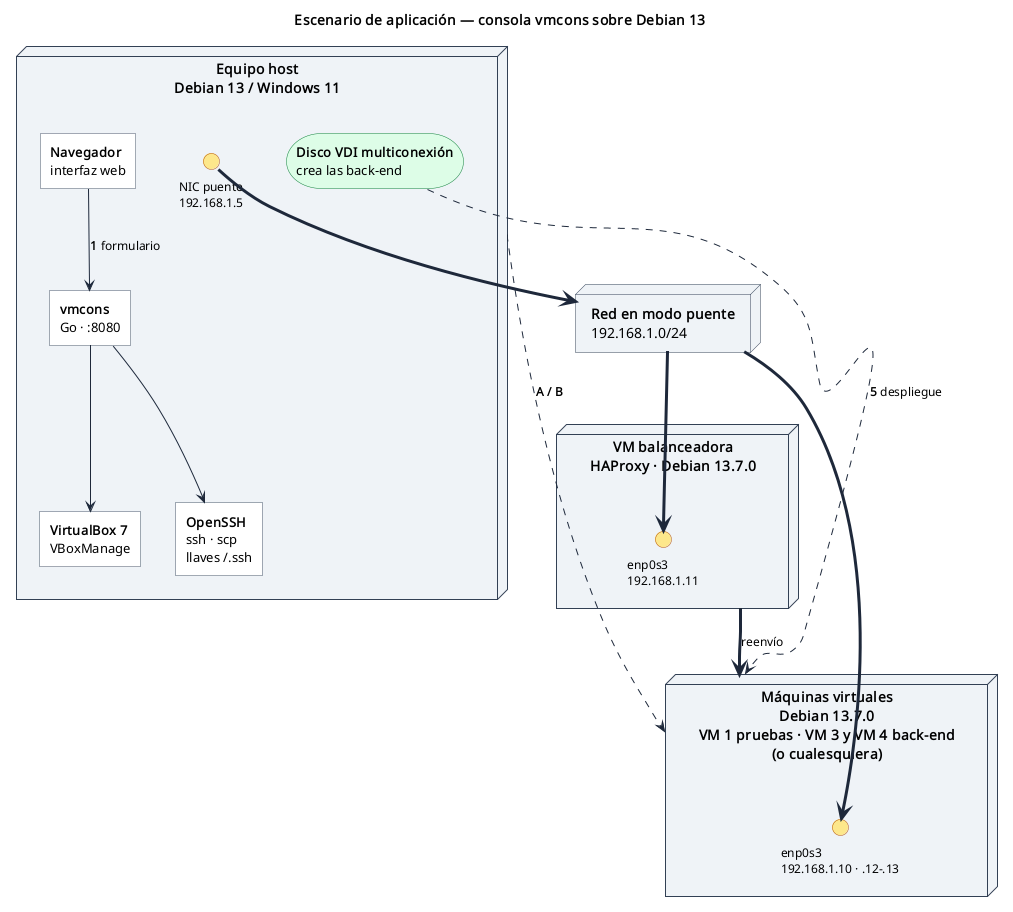
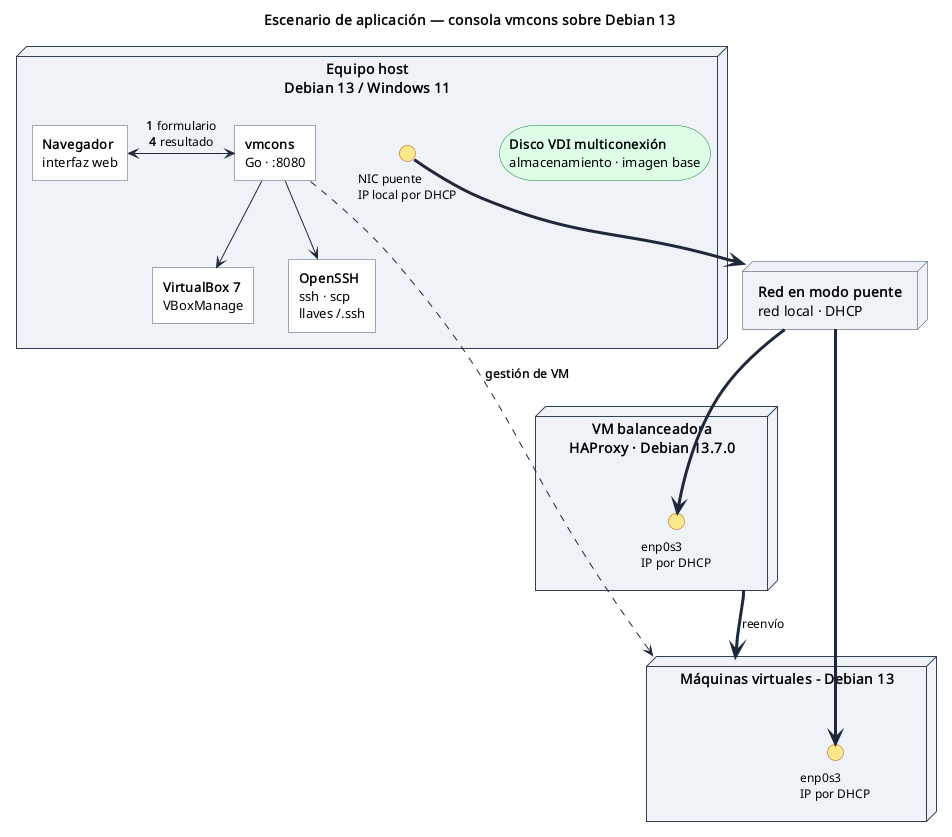
Rediseño del diagrama de escenario: balanceador propio, contenedor de VM y enlace único

diff --git a/docs/diseno-solucion.md b/docs/diseno-solucion.md
@@ -183,6 +183,13 @@ información conservada para el diagnóstico, sin exponer llaves privadas.
    armar la respuesta de diagnóstico en cualquier adaptador.
 5. **Interfaces descargables.** Las llaves privadas se entregan como archivo con
    `Content-Disposition`, no como texto pegado en la página.
+6. **La consola administra VM, no las crea.** El enunciado no pide
+   aprovisionar máquinas: los módulos son preparación del sistema,
+   gestión de usuarios, systemd y HAProxy (§3.1 a §3.4). El disco
+   multiconexión de la precondición (c) es *entorno de pruebas*
+   preparado con VirtualBox fuera de la consola, y en el diagrama del
+   numeral 5 aparece únicamente como «disco utilizado para
+   almacenamiento», sin enlaces de creación.
 
 ---
 
@@ -205,14 +212,27 @@ Criterios de estilo acordados para ambos diagramas:
 - Sin sombras, sin esquinas redondeadas y sin recuadros de leyenda:
   `skinparam shadowing false` y `skinparam roundCorner 0`. Lo que antes
   decía la leyenda pasa al texto y al pie de la figura del informe.
-- Un único enlace de comunicación con las VM, rotulado **A / B**; la
-  definición de A (Guest Additions) y B (SSH con llaves) vive en el pie
-  de la Figura 1 y en §3.1.2.
 - En el escenario, `vmcons` dibuja flechas de uso hacia VirtualBox 7 y
   OpenSSH, y el disco multiconexión se declara dentro del equipo host
-  porque vive en el anfitrión.
+  porque vive en el anfitrión: es almacenamiento, sin flechas de
+  creación de VM.
+- El contenedor de VM lleva un título corto («Máquinas virtuales -
+  Debian 13»); los roles (pruebas, back-end) y la posibilidad de
+  añadir otras quedan en §3.1.1 del informe.
+- El flujo general de la automatización se dibuja como bucle 1 → 4 en
+  el navegador: «1 formulario / 4 resultado»; el paso intermedio
+  (validación, sesión y ejecución) ocurre entre `vmcons`, los
+  adaptadores y la VM.
 - El balanceador de HAProxy va en nodo propio (módulo 3.4 y punto de
   partida del reenvío); la VM de pruebas y las back-end se resumen en un
   único contenedor marcado como «o cualesquiera».
 - Legibilidad: el texto debe imprimirse a ≥ 7 pt, lo que obliga a
   mantener cortas las etiquetas y el aspecto de la figura cercano a 1.
+- Direcciones IP: no se fijan en el diagrama. El anfitrión y cada VM
+  reciben la suya por DHCP en cada arranque, y la consola la descubre
+  en tiempo de ejecución con `VBoxManage guestproperty get`; por eso
+  las interfaces se rotulan «IP por DHCP».
+- Un único enlace discontinuo desde `vmcons` hacia las VM, rotulado
+  «gestión de VM»: indica que la consola maneja las máquinas. Los
+  mecanismos concretos (Guest Additions y SSH con llaves) se explican
+  en §3.1.2 del informe.
